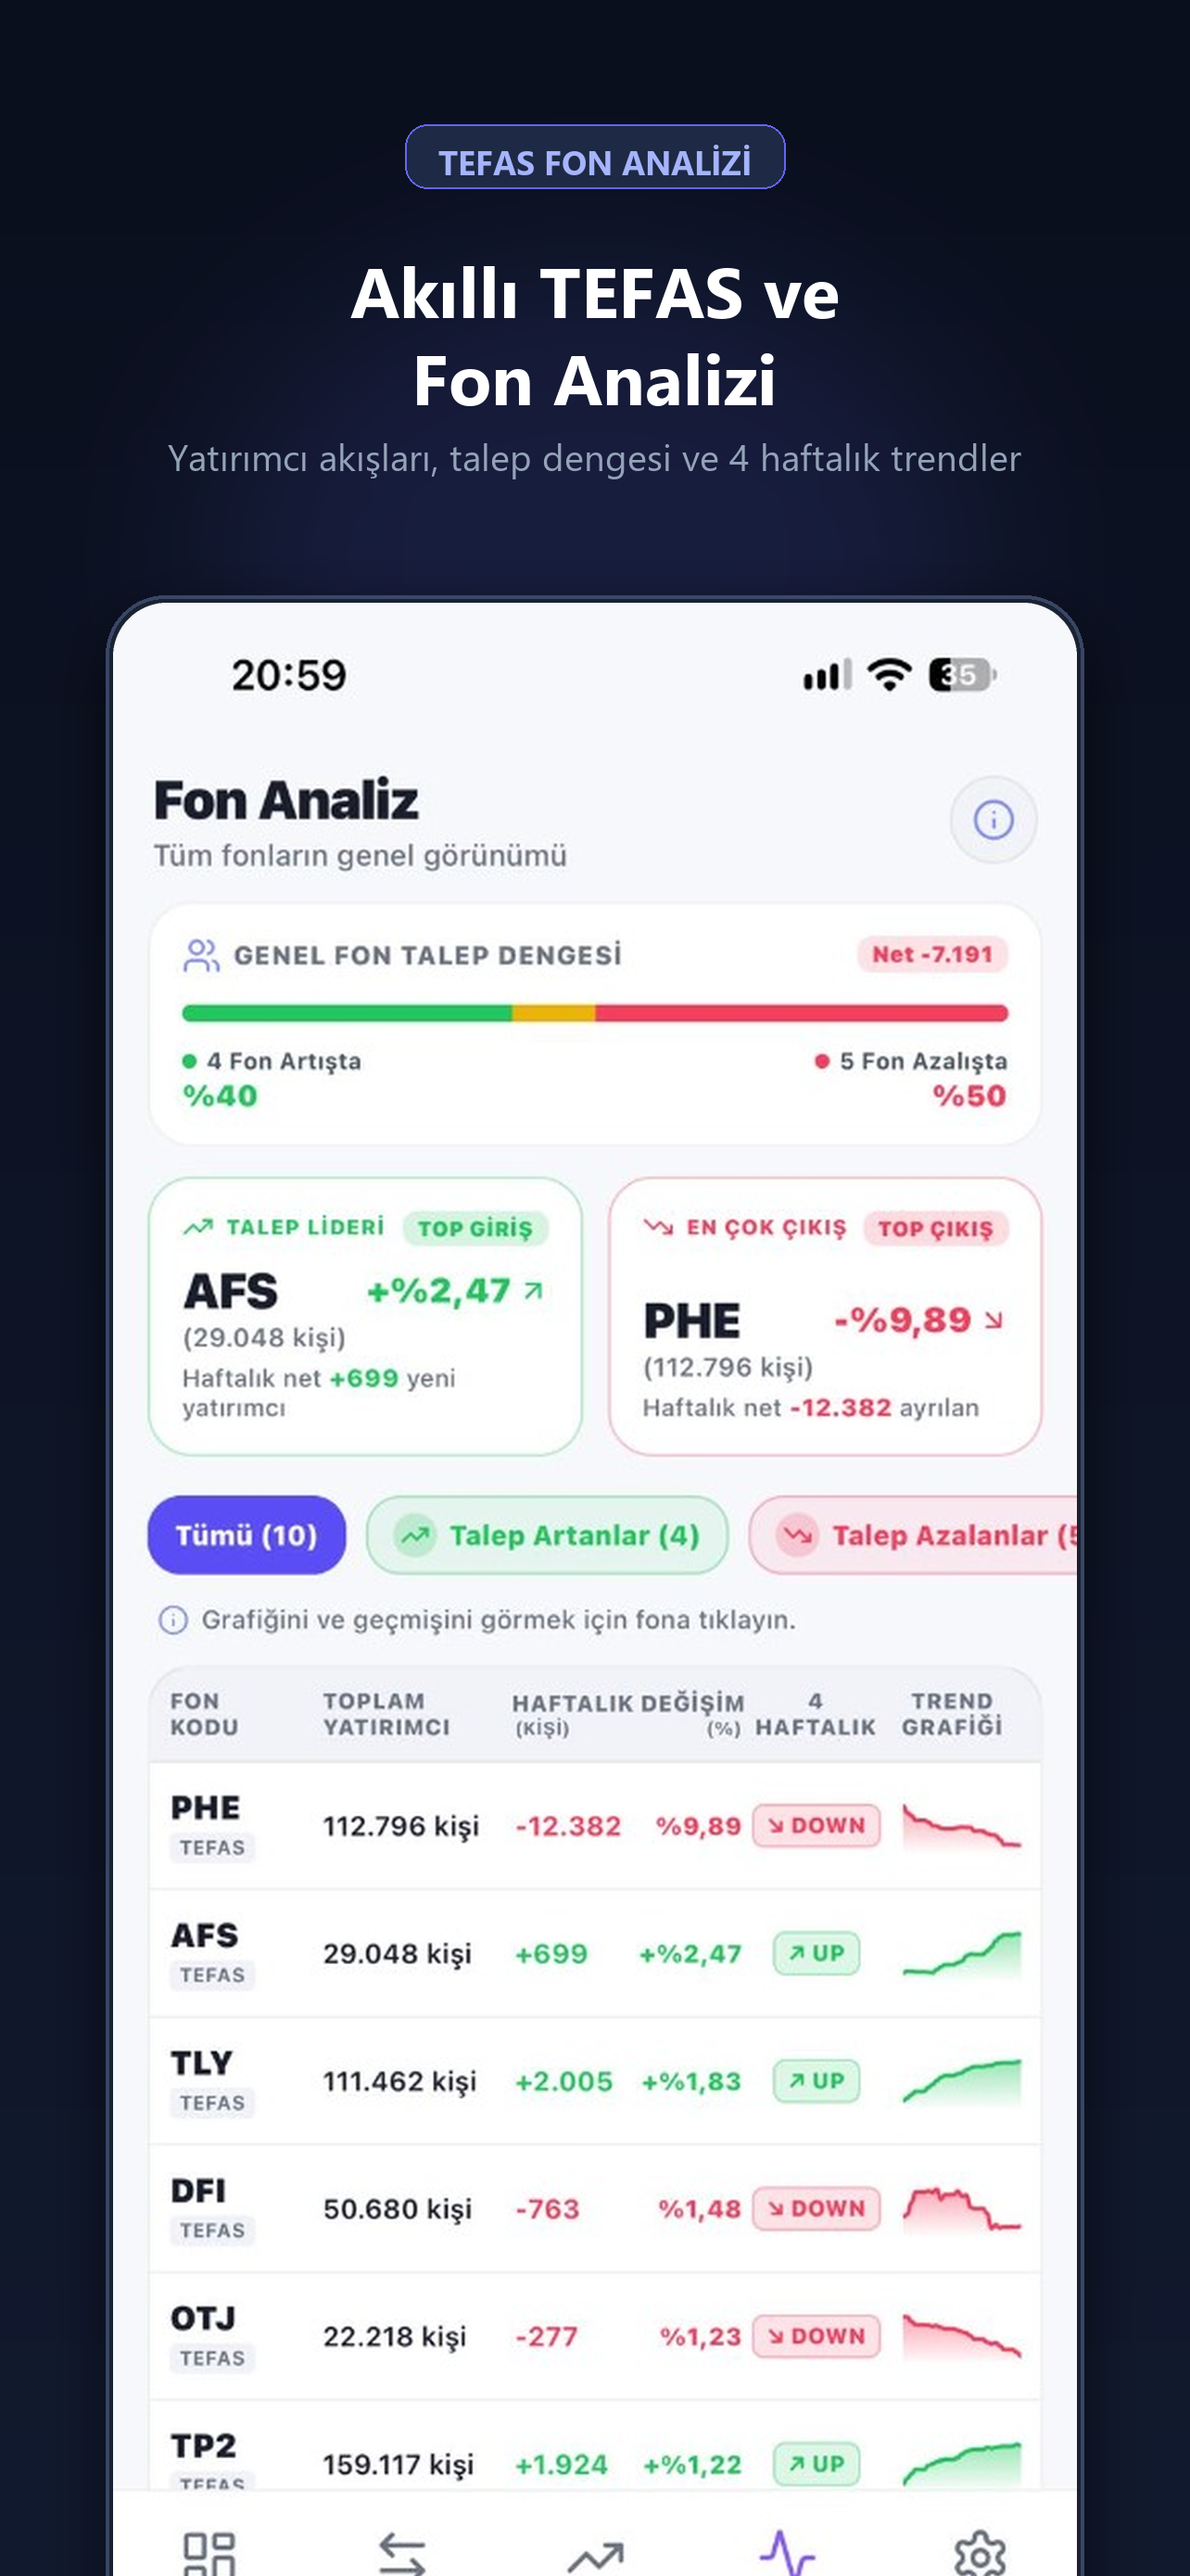
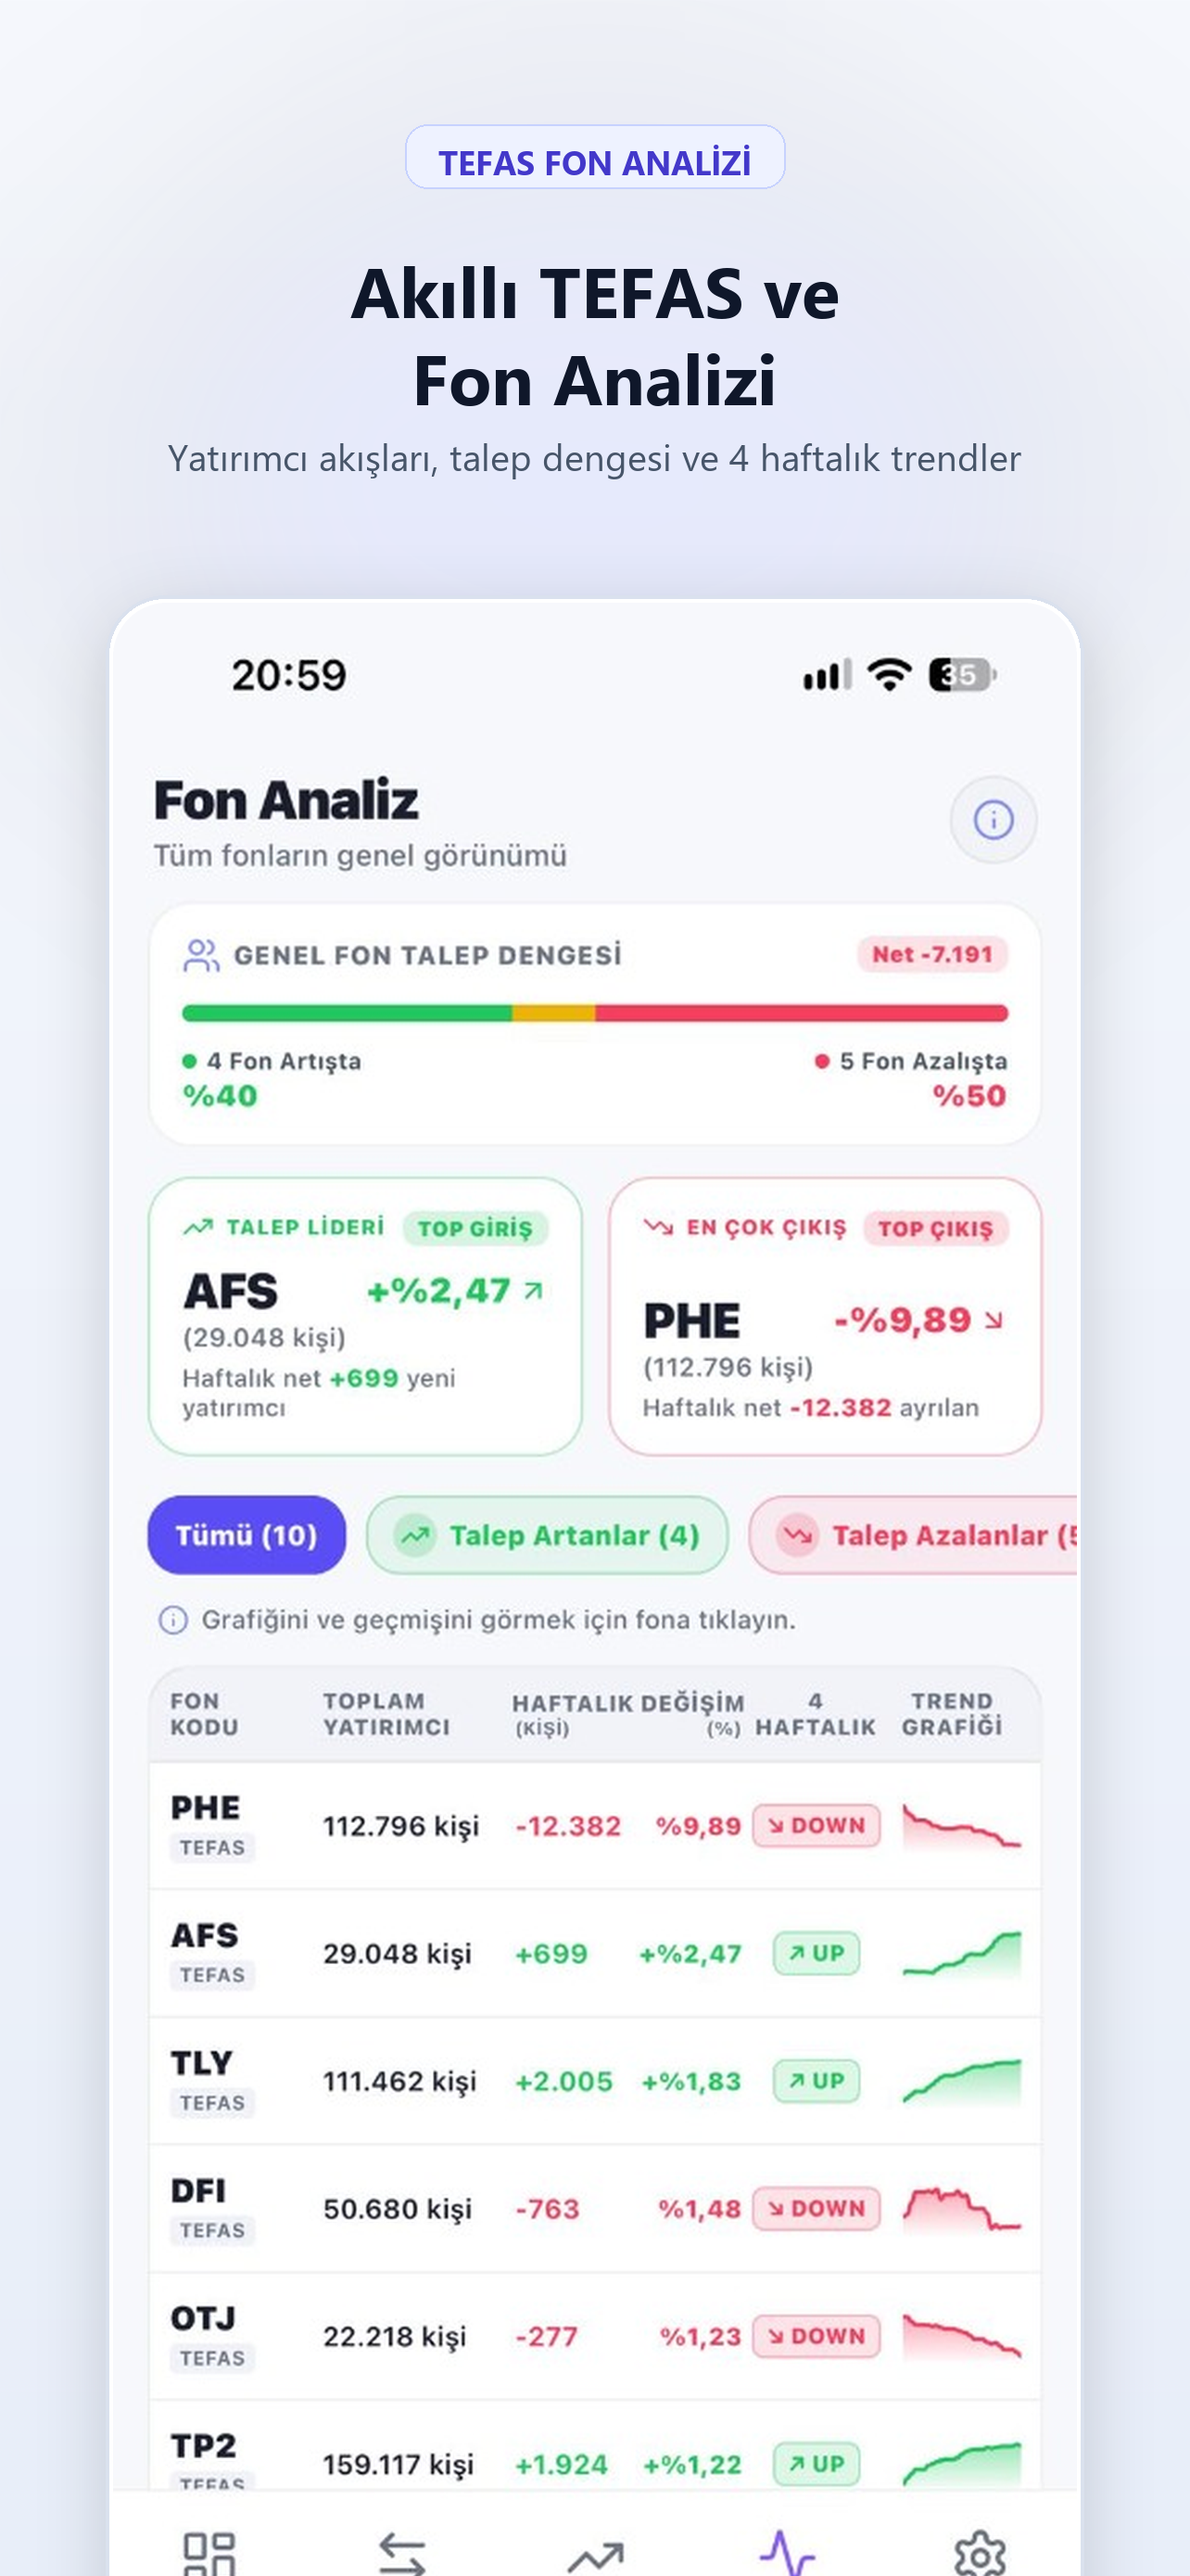
assets: update App Store showcase screenshots to premium light theme matching app UI

diff --git a/PortTrackAndroid/store_assets/generate_ios_screenshots.py b/PortTrackAndroid/store_assets/generate_ios_screenshots.py
@@ -101,19 +101,19 @@ for idx, item in enumerate(SCREENS):
     
     raw_img = Image.open(img_path).convert("RGBA")
     
-    # 1. Tuval Arka Planı (Lüks Koyu Gece Mavisi / İndigo Gradient)
-    canvas = create_gradient(CANVAS_W, CANVAS_H, (10, 15, 29), (18, 26, 47)).convert("RGBA")
+    # 1. Tuval Arka Planı (Şık, Ferah Apple Açık Tema: İpeksi Beyaz -> Buzul Mavi Gradient)
+    canvas = create_gradient(CANVAS_W, CANVAS_H, (246, 248, 253), (232, 238, 249)).convert("RGBA")
     draw = ImageDraw.Draw(canvas)
     
-    # Dekoratif Üst Işıltı (Glow efekti)
+    # Dekoratif Üst Işıltı (Yumuşak pastel mor/indigo aura)
     glow = Image.new("RGBA", (CANVAS_W, CANVAS_H), (0, 0, 0, 0))
     glow_draw = ImageDraw.Draw(glow)
-    glow_draw.ellipse([CANVAS_W // 2 - 500, 200, CANVAS_W // 2 + 500, 1000], fill=(99, 102, 241, 35))
-    glow = glow.filter(ImageFilter.GaussianBlur(120))
+    glow_draw.ellipse([CANVAS_W // 2 - 550, 100, CANVAS_W // 2 + 550, 950], fill=(129, 140, 248, 28))
+    glow = glow.filter(ImageFilter.GaussianBlur(140))
     canvas = Image.alpha_composite(canvas, glow)
     draw = ImageDraw.Draw(canvas)
     
-    # 2. Üst Metinler
+    # 2. Üst Metinler (Açık Tema Kontrastlı Tipografi)
     # A) Kapsül Etiket (Tag Badge)
     tag_text = item["tag"]
     tag_bbox = font_tag.getbbox(tag_text)
@@ -125,17 +125,17 @@ for idx, item in enumerate(SCREENS):
     badge_pad_x = 36
     badge_pad_y = 16
     
-    # Rozet arka planı
+    # Açık tema rozet arka planı (Soft indigo kapsül)
     badge_box = [
         tag_x - badge_pad_x,
         tag_y - badge_pad_y,
         tag_x + tag_w + badge_pad_x,
         tag_y + tag_h + badge_pad_y + 4
     ]
-    draw.rounded_rectangle(badge_box, radius=24, fill=(30, 41, 69, 220), outline=(99, 102, 241, 160), width=2)
-    draw.text((tag_x, tag_y), tag_text, font=font_tag, fill=(165, 180, 252))
+    draw.rounded_rectangle(badge_box, radius=24, fill=(238, 242, 255, 240), outline=(199, 210, 254, 255), width=2)
+    draw.text((tag_x, tag_y), tag_text, font=font_tag, fill=(67, 56, 202))
     
-    # B) Ana Başlık (Title)
+    # B) Ana Başlık (Title - Derin Lacivert / Siyah #0f172a)
     title_text = item["title"]
     title_lines = title_text.split("\n")
     cur_y = 260
@@ -143,18 +143,17 @@ for idx, item in enumerate(SCREENS):
         line_bbox = font_title.getbbox(line)
         line_w = line_bbox[2] - line_bbox[0]
         line_x = (CANVAS_W - line_w) // 2
-        draw.text((line_x, cur_y), line, font=font_title, fill=(255, 255, 255))
+        draw.text((line_x, cur_y), line, font=font_title, fill=(15, 23, 42))
         cur_y += 94
         
-    # C) Alt Başlık (Subtitle)
+    # C) Alt Başlık (Subtitle - Şık Slate Gri #475569)
     sub_text = item["subtitle"]
     sub_bbox = font_subtitle.getbbox(sub_text)
     sub_w = sub_bbox[2] - sub_bbox[0]
     sub_x = (CANVAS_W - sub_w) // 2
-    draw.text((sub_x, cur_y + 16), sub_text, font=font_subtitle, fill=(148, 163, 184))
+    draw.text((sub_x, cur_y + 16), sub_text, font=font_subtitle, fill=(71, 85, 105))
     
     # 3. Telefon Ekranı / Çerçevesi
-    # Ekran boyutlandırma: Genişlik 1020px
     phone_w = 1040
     scale = phone_w / float(raw_img.width)
     phone_h = int(raw_img.height * scale)
@@ -168,25 +167,25 @@ for idx, item in enumerate(SCREENS):
     phone_x = (CANVAS_W - phone_w) // 2
     phone_y = 650
     
-    # Gölgelendirme (Drop Shadow)
+    # Yumuşak Gerçekçi Gölge (Açık tema zemin üzerinde havalanan telefon efekti)
     shadow = Image.new("RGBA", (CANVAS_W, CANVAS_H), (0, 0, 0, 0))
     shadow_draw = ImageDraw.Draw(shadow)
     shadow_draw.rounded_rectangle(
-        [phone_x - 4, phone_y + 16, phone_x + phone_w + 4, phone_y + phone_h + 20],
+        [phone_x - 4, phone_y + 16, phone_x + phone_w + 4, phone_y + phone_h + 24],
         radius=corner_radius + 4,
-        fill=(0, 0, 0, 160)
+        fill=(15, 23, 42, 45)
     )
-    shadow = shadow.filter(ImageFilter.GaussianBlur(32))
+    shadow = shadow.filter(ImageFilter.GaussianBlur(36))
     canvas = Image.alpha_composite(canvas, shadow)
     
-    # Ekranın şık dış çerçevesi (border)
+    # Ekranın şık gümüş/titanyum çerçevesi (border)
     border_img = Image.new("RGBA", (phone_w + 16, phone_h + 16), (0, 0, 0, 0))
     b_draw = ImageDraw.Draw(border_img)
     b_draw.rounded_rectangle(
         [0, 0, phone_w + 15, phone_h + 15],
         radius=corner_radius + 6,
-        fill=(25, 33, 50, 255),
-        outline=(70, 85, 120, 200),
+        fill=(255, 255, 255, 255),
+        outline=(218, 225, 238, 255),
         width=4
     )
     canvas.paste(border_img, (phone_x - 8, phone_y - 8), border_img)
